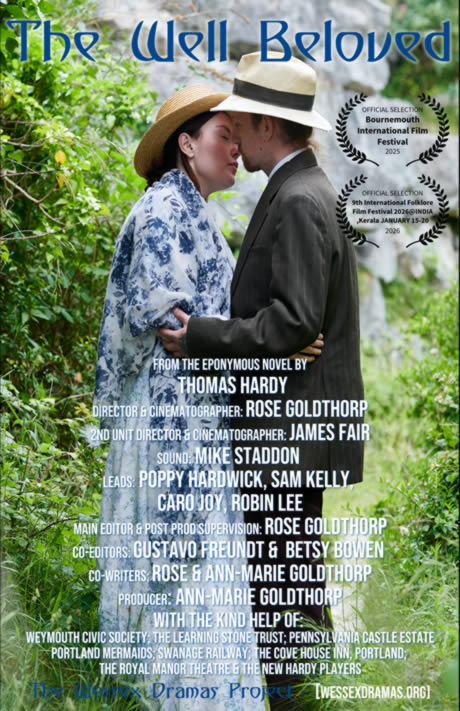
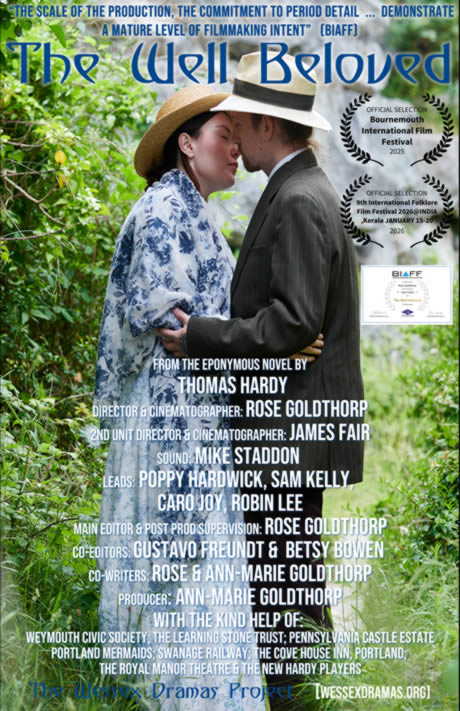
migrated tweaks into the node app

Changed region(s): [[0.0, 0.0, 1.0, 0.4641]]

diff --git a/node-app/src/views/HomePage.vue b/node-app/src/views/HomePage.vue
@@ -19,9 +19,9 @@ const carouselImages = [
           <div class="card-body">
             <div class="row align-items-center">
               <div class="col">
-                <img src="/assets/filmDetails/hardys-hand-of-fate/hhof-poster@460w.jpg"
+                <img src="/assets/filmDetails/the-well-beloved/the-well-beloved-poster@460w.jpg?v=2"
                      class="img-fluid"
-                     alt="The Hardy's Hand of Fate poster">
+                     alt="The Well Beloved poster">
               </div>
             </div>
           </div>
@@ -36,9 +36,8 @@ const carouselImages = [
 
       <div class="col-md" id="rightCol">
         <div class="ratio ratio-16x9">
-          <video id="hrTrailer" controls preload="auto"
-                 poster="/assets/filmDetails/hardys-hand-of-fate/poster-16by9wide.jpg">
-            <source src="/assets/filmDetails/hardys-hand-of-fate/HandOfFate-Trailer-720p.mp4"
+          <video id="hrTrailer" controls preload="auto">
+            <source src="/assets/filmDetails/the-well-beloved/the-well-beloved-trailer-720p.mp4"
                     type="video/mp4">
           </video>
         </div>
@@ -67,8 +66,8 @@ const carouselImages = [
               podcast seasons from the 6 feature film screenplays in the-greenlands.com
               storyworld. I have now, also, started on my period Brit. lit work, whose first story world is
               that of Thomas Hardy's Wessex, by co-adapting Hardy stories for 9 Hardy feature films. The
-              Wessex Dramas' Project (for which I am the resident filmmaker) releases its third Hardy feature
-              film at the end of 2024.</p>
+              Wessex Dramas' Project (for which I am the resident filmmaker) releases its fourth Hardy feature
+              film at the end of 2027.</p>
           </div>
         </div>
         <div class="card">

diff --git a/node-app/src/views/ReleasedFeatures.vue b/node-app/src/views/ReleasedFeatures.vue
@@ -34,10 +34,12 @@ import FilmCard from '../components/FilmCard.vue'
         </p>
 
         <!-- Fellow Townsmen -->
-        <FilmCard title="Fellow Townsmen (2025)"
+        <FilmCard title="Fellow Townsmen (2026/7)"
                   thumbnail="/assets/filmDetails/fellow-townsmen/movie-poster@460w.jpg">
-          <p class="filmPuff">In July and August, Rose is directing and shooting a feature film based upon
-            Hardy's story "Fellow Townsmen". Hardy set this in Bridport and Bridport Harbour ("Port Bredy")</p>
+          <p class="filmPuff">In 2026/7, Rose is directing and shooting a feature film based upon
+            Hardy's story
+            "Fellow Townsmen". Hardy set this in Bridport and Bridport Harbour ("Port Bredy")
+          </p>
           <p class="filmPuff">This feature film will be made as a no-budget with
             <a href="https://wessexdramas.org/" target="_blank"
                class="textLinkToFilmDetails linkText newTabInd">The Wessex Dramas Project</a>
@@ -50,7 +52,7 @@ import FilmCard from '../components/FilmCard.vue'
           <p class="filmPuff">This is an adaptation of Thomas Hardy's "The Trumpet Major".</p>
           <p class="filmPuff">In June, Rose directed this UK feature film, as well as helping with
             various aspects of production (from costumes, through locations, to pack-down).</p>
-          <p class="filmPuff">This film is a microbudget and is slated to be released later in 2025.</p>
+          <p class="filmPuff">This film is a microbudget feature film and is slated to be released mid 2026.</p>
         </FilmCard>
 
         <!-- The Well Beloved -->
